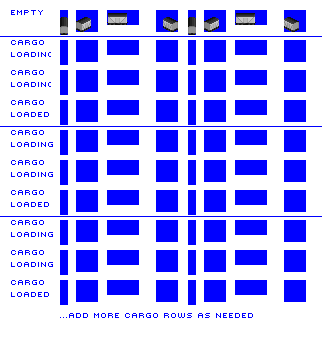
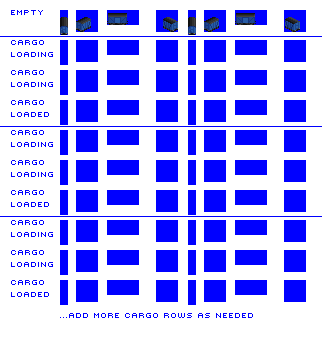
Change: new graphics for brit gen 1 box car, including 2cc variant (closes #6431)

diff --git a/src/vehicles/box_cars.py b/src/vehicles/box_cars.py
@@ -22,6 +22,10 @@ vehicle.add_model_variant(intro_date=0,
                        end_date=global_constants.max_game_date,
                        spritesheet_suffix=0)
 
+vehicle.add_model_variant(intro_date=0,
+                       end_date=global_constants.max_game_date,
+                       spritesheet_suffix=1)
+
 vehicle = BoxCar(title = 'Box [Car]',
                 vehicle_set = 'brit',
                 wagon_generation = 2,
